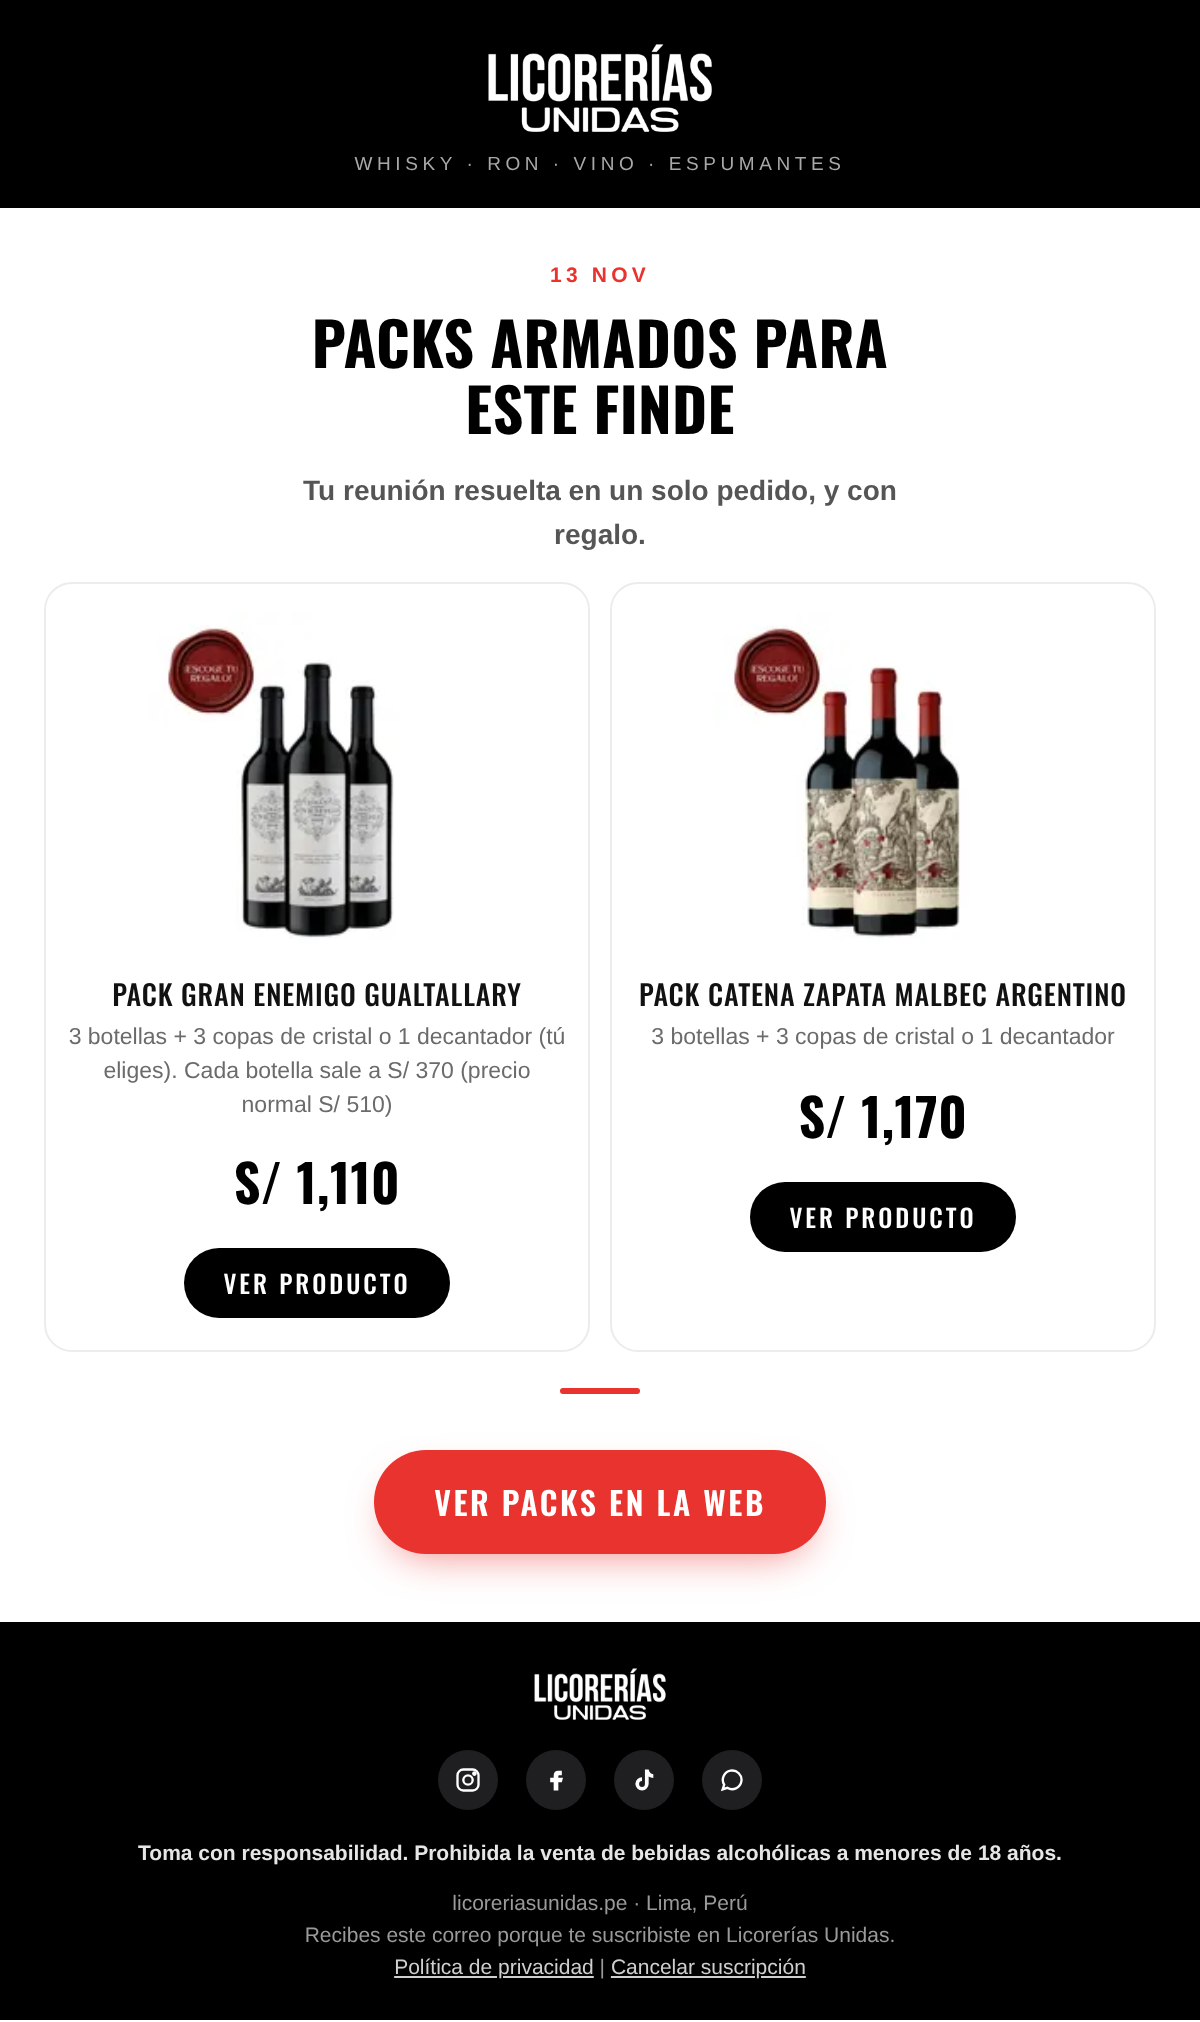
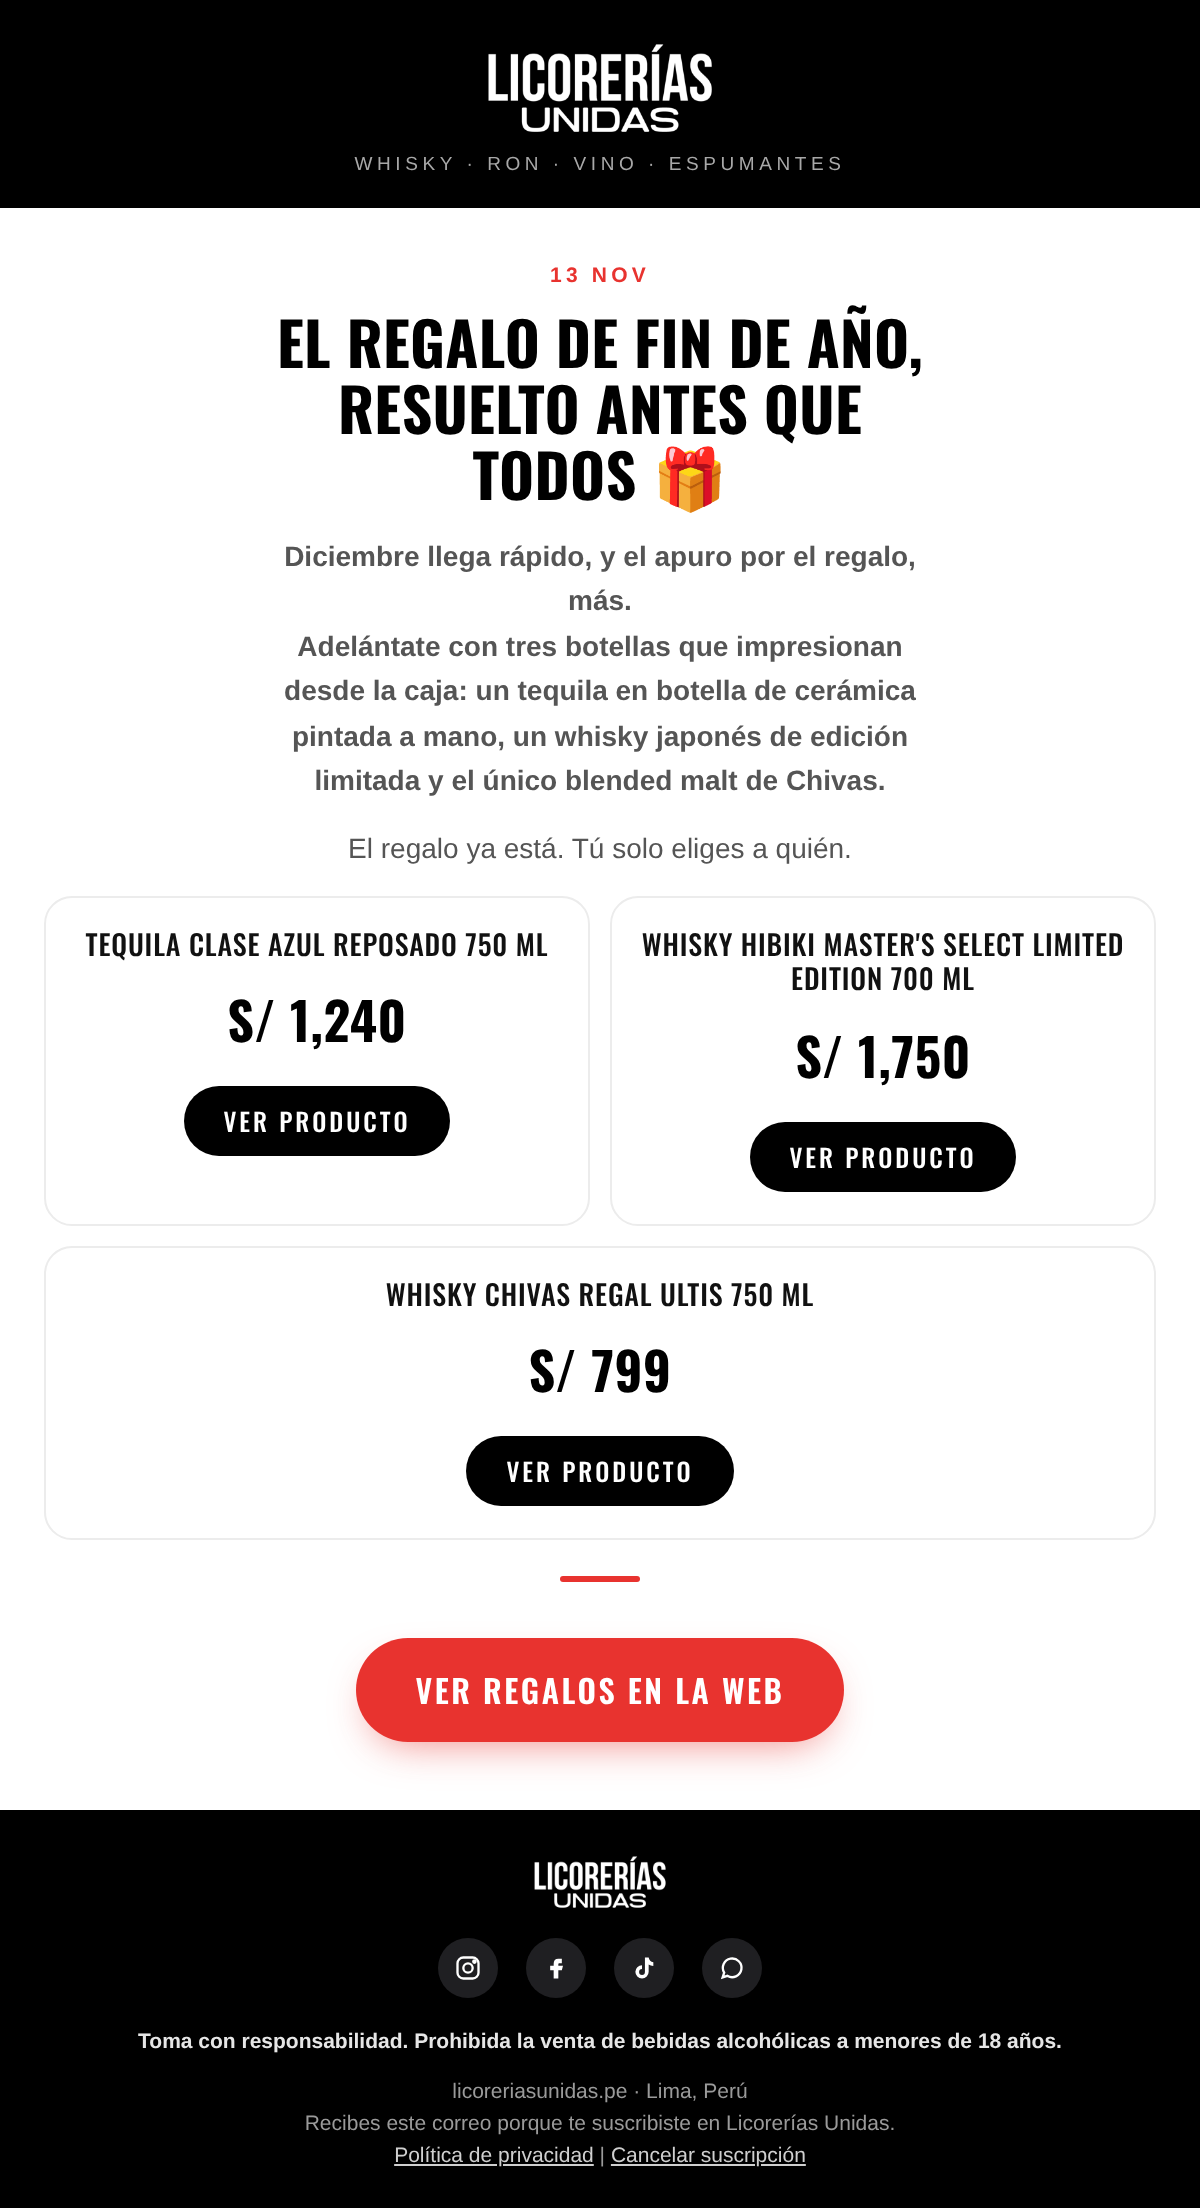
Mailings de noviembre: versión aprobada (asuntos, textos y productos)
Claude-Session: https://claude.ai/code/session_0148WGEnZfS2ZRp3UxJqiBn1

Changed region(s): [[0.0, 0.0, 1.0, 1.0]]

diff --git a/COPYS_MAILING_NOV_LU.md b/COPYS_MAILING_NOV_LU.md
@@ -1,229 +1,201 @@
-# Copys de mailing · Licorerías Unidas · Noviembre 2026
+# Mailings · Noviembre 2026 · Licorerías Unidas (versión aprobada)
 
-Precios tomados del planificador (campaña CSI), del catálogo de vinos (precio venta vs. precio normal) y de lo que confirmaste. Stock revisado con el inventario del 03/11. Donde dice "antes", es el precio normal del catálogo, o sea un ahorro real.
+El texto va corto; los productos salen como tarjetas con foto, precio y botón.
 
-**Pie legal (va en todos):**
+## 05/11
 
-> Toma con responsabilidad. Prohibida la venta de bebidas alcohólicas a menores de 18 años.
-> [Darse de baja]
+- Asunto A: Luis Miguel llegó a Licorerías Unidas
+- Asunto B: Maluma, Luisito y Luis Miguel están en LU
+- Preheader: Bueno… sus botellas. Y acaban de llegar.
 
----
+Cuerpo:
 
-## 1. Jueves 05/11 · El chisme detrás de la botella
+Luis Miguel llegó a Licorerías Unidas.
+Bueno, su tequila. Y no vino solo: también llegó Gran Malo, el tequila de Luisito Comunica, y Contraluz, el mezcal cristalino de Maluma.
 
-- **Asunto A:** El tequila de Luisito Comunica ya llegó
-- **Asunto B:** Lo que Luisito Comunica toma, ahora en LU
-- **Preheader:** Gran Malo acaba de llegar a Licorerías Unidas.
+Tres botellas con nombre propio y tres estilos distintos: uno dulce y picante, uno suave y transparente, y un clásico de agave azul. Mira cuál va contigo.
 
-**Cuerpo:**
-
-Seguro lo viste en sus videos. Ahora lo tienes a un clic.
-
-Gran Malo es la marca de tequila de Luisito Comunica, y acaba de llegar a Licorerías Unidas. Tequila con tamarindo y un toque picante: para la previa, para compartir y para que alguien pregunte "¿y eso qué es?".
-
-**Recién llegado:**
 - Tequila Gran Malo Spicy Tamarindo 750 ml: S/ 100
+- Mezcal Contraluz Cristalino Reposado 700 ml: S/ 225
+- Tequila Don Ramón Plata edición Luis Miguel 750 ml
 
-- **CTA:** Ver Gran Malo en la web
-- **P.D.:** Recién llegó y por ahora está en la tienda de Surco y en la web.
+- CTA: Ver las tres en la web
+- P.D.: Son pocas unidades, sobre todo de la edición Luis Miguel.
 
----
 
-## 2. Viernes 06/11 · Recomendación de fin de semana
+## 06/11
 
-- **Asunto A:** Las 3 botellas que no pueden faltar en tu previa este viernes 🍸
-- **Asunto B:** Tu viernes empieza a las 5 (y el precio también)
-- **Preheader:** Descubre los recomendados de la semana en LU para tus reuniones.
+- Asunto A: Las 3 botellas que no pueden faltar en tu previa este viernes 🍸
+- Asunto B: Tu viernes empieza a las 5 (y el precio también)
+- Preheader: Descubre los recomendados de la semana en LU.
 
-**Cuerpo:**
+Cuerpo:
 
-Cierra la laptop, que el fin de semana arranca oficialmente.
+Cierra la laptop, que el finde ya arrancó.
+Para la previa de hoy, la cena con amigos o la parrilla del domingo, elegimos tres botellas que nunca fallan: un whisky para impresionar, un gin para los que prefieren algo fresco y un tinto argentino con S/ 160 de descuento.
 
-Si estás organizando la previa de hoy, una cena o la parrilla del domingo, te dejamos 3 etiquetas de nuestro catálogo que nunca fallan para quedar como el mejor anfitrión.
+Pídelas hoy y llegan a tu puerta.
 
-Los recomendados de la semana:
+- Whisky Johnnie Walker XR 21 años 750 ml: S/ 650
+- Gin Hendrick's 700 ml: S/ 110
+- Vino Gran Enemigo Agrelo 750 ml: antes S/ 450 · ahora S/ 290
 
-- **Whisky Johnnie Walker XR 21 años 750 ml:** S/ 650
-- **Gin Hendrick's 700 ml:** S/ 110
-- **Vino Gran Enemigo Agrelo 750 ml:** antes S/ 450 · ahora S/ 290
+- CTA: Explorar catálogo de fin de semana
 
-Haz tu pedido hoy desde la web y recíbelo directamente en tu puerta.
 
-- **CTA:** Explorar catálogo de fin de semana
+## 10/11
 
----
+- Asunto A: El ron que los maestros roneros guardan para ellos 🥃
+- Asunto B: Estos 3 rones no se toman con cola
+- Preheader: Tres botellas de La Casa del Ron para tomar despacio.
 
-## 3. Martes 10/11 · La Casa del Ron · tres rones especiales
+Cuerpo:
 
-- **Asunto A:** Para cuando el ron de siempre ya no basta
-- **Asunto B:** ¿Cuál fue el último ron que te sorprendió?
-- **Preheader:** Tres rones de La Casa del Ron que se toman despacio.
+Hay rones para la fiesta y rones para la sobremesa.
+Estos son de los segundos: la reserva de los maestros roneros de Brugal y dos ediciones especiales de Zacapa que no se ven en cualquier bar.
 
-**Cuerpo:**
+Sírvelos solos y tómatelos sin apuro.
 
-Si el último ron que probaste no te sorprendió, este correo es para ti.
+- Ron Brugal Maestro Reserva 700 ml: S/ 1,499
+- Ron Zacapa La Pasión Heavenly Cask Collection 700 ml: S/ 499
+- Ron Zacapa Edición Negra 750 ml: S/ 550
 
-En La Casa del Ron elegimos tres botellas con historia: una reserva de maestros roneros y dos ediciones especiales de Zacapa.
+- CTA: Ver La Casa del Ron en la web
 
-**La selección:**
-- **Ron Brugal Maestro Reserva 700 ml:** S/ 1,499. Reserva de la familia maestra ronera de Brugal.
-- **Ron Zacapa La Pasión Heavenly Cask Collection 700 ml:** S/ 499
-- **Ron Zacapa Edición Negra 750 ml:** S/ 550
 
-- **CTA:** Ver La Casa del Ron en la web
+## 12/11
 
----
+- Asunto A: El whisky que se hizo para una reina 👑
+- Asunto B: ¿Whisky de reina o whisky fantasma?
+- Preheader: Dos leyendas escocesas, dos historias que no te contaron.
 
-## 4. Jueves 12/11 · ¿Cuál cuesta más?
+Cuerpo:
 
-- **Asunto A:** Uno cuesta cientos de soles más. ¿Adivinas cuál?
-- **Asunto B:** Royal Salute 21 o Blue Label: ¿cuál pagarías?
-- **Preheader:** Dos leyendas escocesas frente a frente.
+En 1953 se coronó una reina, y para celebrarlo se creó un whisky.
+Ese es el Royal Salute 21, en su botella de porcelana color zafiro. Su rival, el Blue Label, guarda otro secreto: en su mezcla hay whiskies de destilerías que ya no existen.
 
-**Cuerpo:**
+Una nació para la realeza; la otra rescata sabores que ya no se fabrican. ¿Con cuál brindas?
 
-Dos botellas. Dos leyendas. Una cuesta bastante más que la otra.
+- Whisky Chivas Royal Salute 21 años 700 ml: S/ 699
+- Whisky Johnnie Walker Blue Label 750 ml: S/ 870
 
-**Chivas Royal Salute 21 años:** nació en 1953 para la coronación de la reina Isabel II. Su botella es de porcelana color zafiro, como las piedras de la corona.
+- CTA: Ver las dos en la web
 
-**Johnnie Walker Blue Label:** no declara edad. Su secreto es una mezcla de whiskies muy escasos, algunos de destilerías que ya cerraron.
 
-¿Cuál crees que cuesta más?
+## 13/11
 
-- **CTA:** Ver la respuesta en la web
-- **Al hacer clic:** Johnnie Walker Blue Label S/ 870 · Chivas Royal Salute 21 años S/ 699. Los S/ 171 de diferencia los pone la escasez, no la edad.
+- Asunto A: El regalo de fin de año, resuelto antes que todos 🎁
+- Asunto B: Regalos que se ven caros (porque lo son)
+- Preheader: Tres botellas para quedar bien sin pensarlo dos veces.
 
----
+Cuerpo:
 
-## 5. Viernes 13/11 · Packs de fin de semana
+Diciembre llega rápido, y el apuro por el regalo, más.
+Adelántate con tres botellas que impresionan desde la caja: un tequila en botella de cerámica pintada a mano, un whisky japonés de edición limitada y el único blended malt de Chivas.
 
-- **Asunto A:** Packs armados para este finde
-- **Asunto B:** ¿Reunión a la vista? El regalo ya viene incluido
-- **Preheader:** Vinos argentinos con copas o decantador de regalo.
+El regalo ya está. Tú solo eliges a quién.
 
-**Cuerpo:**
+- Tequila Clase Azul Reposado 750 ml: S/ 1,240
+- Whisky Hibiki Master's Select Limited Edition 700 ml: S/ 1,750
+- Whisky Chivas Regal Ultis 750 ml: S/ 799
 
-Tu reunión resuelta en un solo pedido, y con regalo.
+- CTA: Ver regalos en la web
 
-- **Pack Gran Enemigo Gualtallary:** 3 botellas + 3 copas de cristal o 1 decantador (tú eliges). S/ 1,110. Cada botella sale a S/ 370 (precio normal S/ 510).
-- **Pack Catena Zapata Malbec Argentino:** 3 botellas + 3 copas de cristal o 1 decantador. S/ 1,170.
 
-- **CTA:** Ver packs en la web
+## 17/11
 
----
+- Asunto A: Tu nombre puede estar en dos pasajes a Mendoza ✈
+- Asunto B: 2 pasajes a Mendoza. ¿Con quién irías?
+- Preheader: Sorteamos un viaje para dos. Participas hasta el 31/12.
 
-## 6. Martes 17/11 · Destino Mendoza
+Cuerpo:
 
-- **Asunto A:** Te podemos llevar a Mendoza. Así participas
-- **Asunto B:** Un viaje para dos a Mendoza empieza en LU
-- **Preheader:** Del 15 de noviembre al 31 de diciembre.
+Imagínate en febrero: viñedos, montañas y una copa de Malbec en la mano.
+Ese es el premio de DESTINO MENDOZA: un viaje para dos personas a Mendoza, Argentina. Puedes participar del 15 de noviembre al 31 de diciembre.
 
-**Cuerpo:**
+Tú pones la compañía. Las bases te dicen cómo entrar.
 
-Viñedos, montañas y la cordillera de los Andes de fondo.
+- CTA: Ver cómo participar
 
-**DESTINO MENDOZA** es la nueva campaña de Licorerías Unidas. El premio es un viaje para dos personas a Mendoza, Argentina, previsto para febrero de 2027.
 
-- **Vigencia:** del 15 de noviembre al 31 de diciembre de 2026.
-- **Premio:** viaje para dos personas a Mendoza.
-- **Cómo participar:** todo está en las bases oficiales.
+## 19/11
 
-- **CTA:** Ver bases en la web
+- Asunto A: Lo estás tomando en la copa equivocada 🍷
+- Asunto B: Tu vino favorito puede saber mejor esta noche
+- Preheader: Un cambio de 10 segundos y el mismo vino sabe distinto.
 
----
+Cuerpo:
 
-## 7. Jueves 19/11 · El error que todos cometen
+¿Te ha pasado que un vino te encantó en el restaurante y en casa no sabía igual?
+No era el vino: era la copa. El tinto necesita espacio para respirar, el blanco una copa pequeña que lo mantenga frío y el espumante una alta para no perder la burbuja.
 
-- **Asunto A:** El error que arruina un vino de S/100 (y no es el vino)
-- **Asunto B:** Tu vino está bien. El problema es la copa
-- **Preheader:** Un cambio de 10 segundos que cambia todo el sabor.
+Haz la prueba esta noche.
 
-**Cuerpo:**
+- Vino Gran Enemigo Gualtallary 750 ml: antes S/ 510 · ahora S/ 370
+- Vino El Enemigo Chardonnay 750 ml: antes S/ 110 · ahora S/ 95
+- Espumante Chandon Extra Brut 750 ml: S/ 62
 
-Compraste un buen vino, lo serviste y… nada especial. Probablemente fue la copa.
+- CTA: Ver vinos en la web
 
-- **Tinto:** copa ancha. El vino necesita aire para soltar sus aromas.
-- **Blanco y rosado:** copa más pequeña. Mantiene el frío y la frescura.
-- **Espumante:** copa alta y delgada (flauta). Conserva la burbuja.
 
-Bonus: en Lima el tinto no se sirve "al tiempo". Un poco fresco (16–18 °C) sabe mucho mejor.
+## 20/11
 
-Ahora que ya sabes servirlo:
-- **Tinto · Gran Enemigo Gualtallary 750 ml:** antes S/ 510 · ahora S/ 370
-- **Blanco · El Enemigo Chardonnay 750 ml:** antes S/ 110 · ahora S/ 95
-- **Espumante · Chandon Extra Brut 750 ml:** S/ 62
+- Asunto A: ¿Brindis de S/ 55 o de S/ 600? Los dos valen 🥂
+- Asunto B: Hay una burbuja para cada plan del finde
+- Preheader: Prosecco, cava o champagne: depende de lo que celebres.
 
-- **CTA:** Ver vinos en la web
+Cuerpo:
 
----
+No todos los brindis piden lo mismo.
+Un prosecco fresco para la previa con amigos, un cava para la cena que quieres que salga bien y un champagne para cuando de verdad hay algo que celebrar.
 
-## 8. Viernes 20/11 · Espumantes de fin de semana
+¿Qué toca este finde?
 
-- **Asunto A:** Champagne, cava o prosecco: ¿cuál descorchas este finde?
-- **Asunto B:** No todas las burbujas son champagne
-- **Preheader:** La diferencia en 3 líneas, desde S/ 55.
+- Prosecco Riccadonna 750 ml: S/ 55
+- Cava Juvé & Camps Gran Juvé 750 ml: S/ 270
+- Champagne Veuve Clicquot Brut + estuche Arrow 750 ml: S/ 600
 
-**Cuerpo:**
+- CTA: Ver espumantes en la web
 
-Todos les dicen champagne, pero no todos lo son.
 
-- **Champagne:** solo si viene de Champagne, Francia. Elegante y con burbuja fina.
-- **Cava:** de España, hecho con el mismo método que el champagne. Gran calidad por menos.
-- **Prosecco:** de Italia. Fresco, frutal y fácil de tomar.
+## 24/11
 
-Elige el tuyo:
-- **Champagne · Veuve Clicquot Brut + estuche Arrow 750 ml:** S/ 600
-- **Cava · Juvé & Camps Gran Juvé 750 ml:** S/ 270
-- **Prosecco · Riccadonna Prosecco 750 ml:** S/ 55
+- Asunto A: 🔒 Algo se desbloquea el viernes 27
+- Asunto B: Te guardamos un lugar en primera fila
+- Preheader: No podemos decir qué. Solo cuándo.
 
-- **CTA:** Ver espumantes en la web
+Cuerpo:
 
----
+Viernes 27. Pon una alarma.
+No podemos contarte más todavía. Lo que sí podemos decirte es que este año los primeros en enterarse son los que están en esta lista.
 
-## 9. Martes 24/11 · Pre Black Friday
+Nos vemos el viernes.
 
-- **Asunto A:** El viernes pasa algo. Te avisamos primero a ti
-- **Asunto B:** Guarda la fecha: viernes 27
-- **Preheader:** Todavía no podemos contarte más. Solo te pedimos una cosa.
+- CTA: Visitar la web
 
-**Cuerpo:**
 
-Este correo no tiene precios. Todavía.
+## 26/11
 
-El **viernes 27 de noviembre** llega el Black Friday a Licorerías Unidas, y quienes están en esta lista se enteran primero.
+- Asunto A: Mañana es el día. ¿Ya tienes tu carrito listo? 🛒
+- Asunto B: Faltan horas para Black Friday en LU
+- Preheader: Arma tu carrito hoy y mañana solo pagas.
 
-Lo único que te pedimos: ese día revisa tu correo.
+Cuerpo:
 
-- **CTA:** Visitar la web
+Mañana es Black Friday en Licorerías Unidas.
+El truco para no perderte nada: entra hoy, deja tus botellas favoritas en el carrito y, cuando se activen los precios, solo te queda pagar.
 
----
+- CTA: Armar mi carrito
 
-## 10. Jueves 26/11 · El plan ya armado
 
-- **Asunto A:** Mañana es Black Friday: el brindis ya lo tienes
-- **Asunto B:** Mañana se abre. Hoy elige con qué brindar
-- **Preheader:** Arma tu lista hoy y compra mañana a primera hora.
+## 27/11
 
-**Cuerpo:**
+- Asunto A: Ya empezó. Hasta las 23:59
+- Asunto B: Black Friday en LU: hoy y solo hoy
 
-Mañana empieza el Black Friday en LU.
+Cuerpo:
 
-El consejo de hoy: arma tu lista ahora para no perder tiempo mañana. Y si vas a brindar en las fiestas, empieza por las burbujas:
+Va aparte: se arma con las condiciones comerciales de Black Friday.
 
-- Espumante Chandon Extra Brut 750 ml
-- Champagne Moët & Chandon Impérial 750 ml
-- Cava Juvé & Camps Gran Juvé 750 ml
+- CTA: Ver ofertas en la web
 
-Mañana te enviamos los precios apenas se activen.
-
-- **CTA:** Ver espumantes en la web
-
----
-
-## 11. Viernes 27/11 · Black Friday
-
-Va aparte: se arma con las definiciones comerciales de Black Friday.
-
-- **Asunto A:** Ya empezó. Hasta las 23:59
-- **Asunto B:** Black Friday en LU: hoy y solo hoy
-- **CTA:** Ver ofertas en la web
